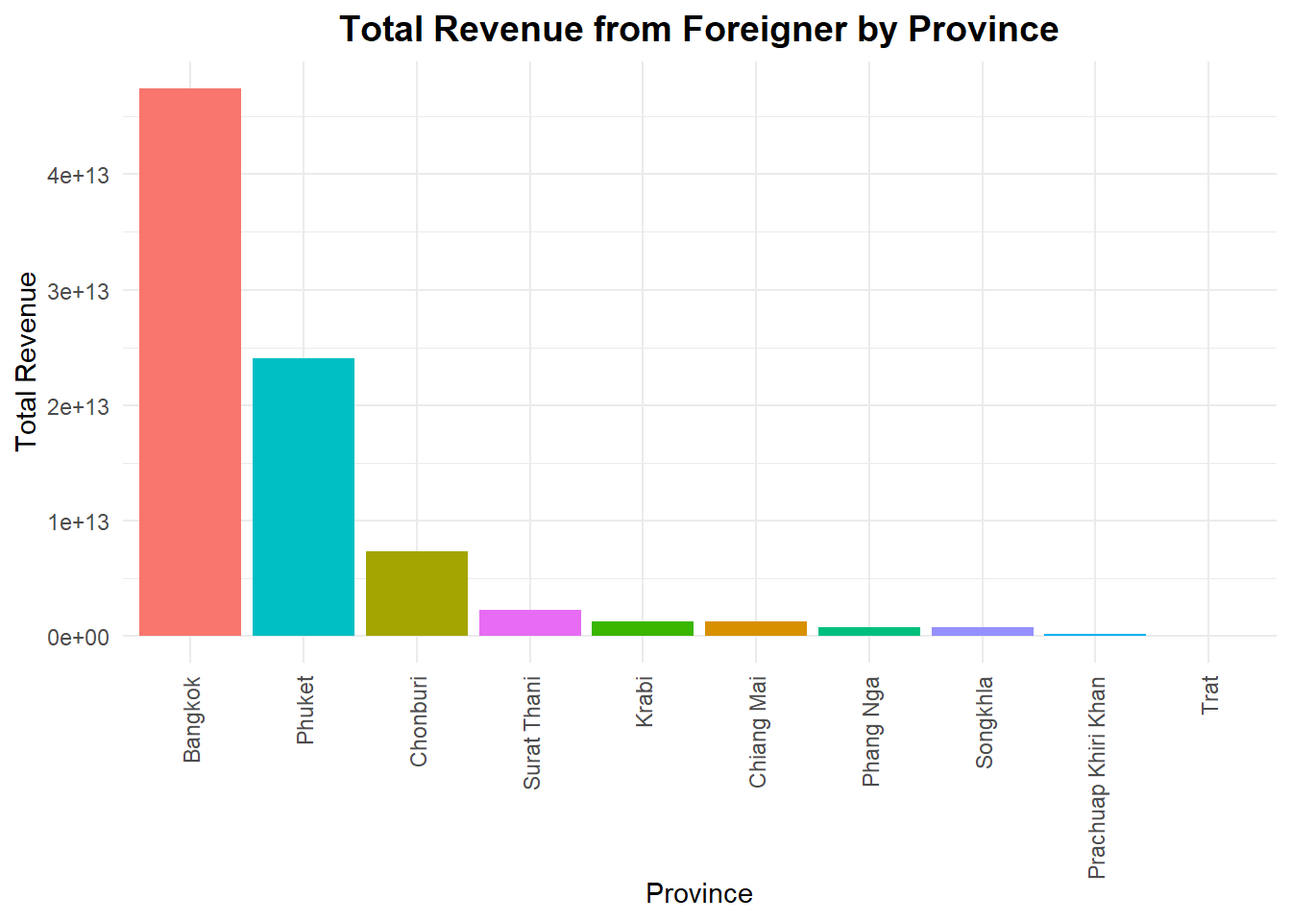
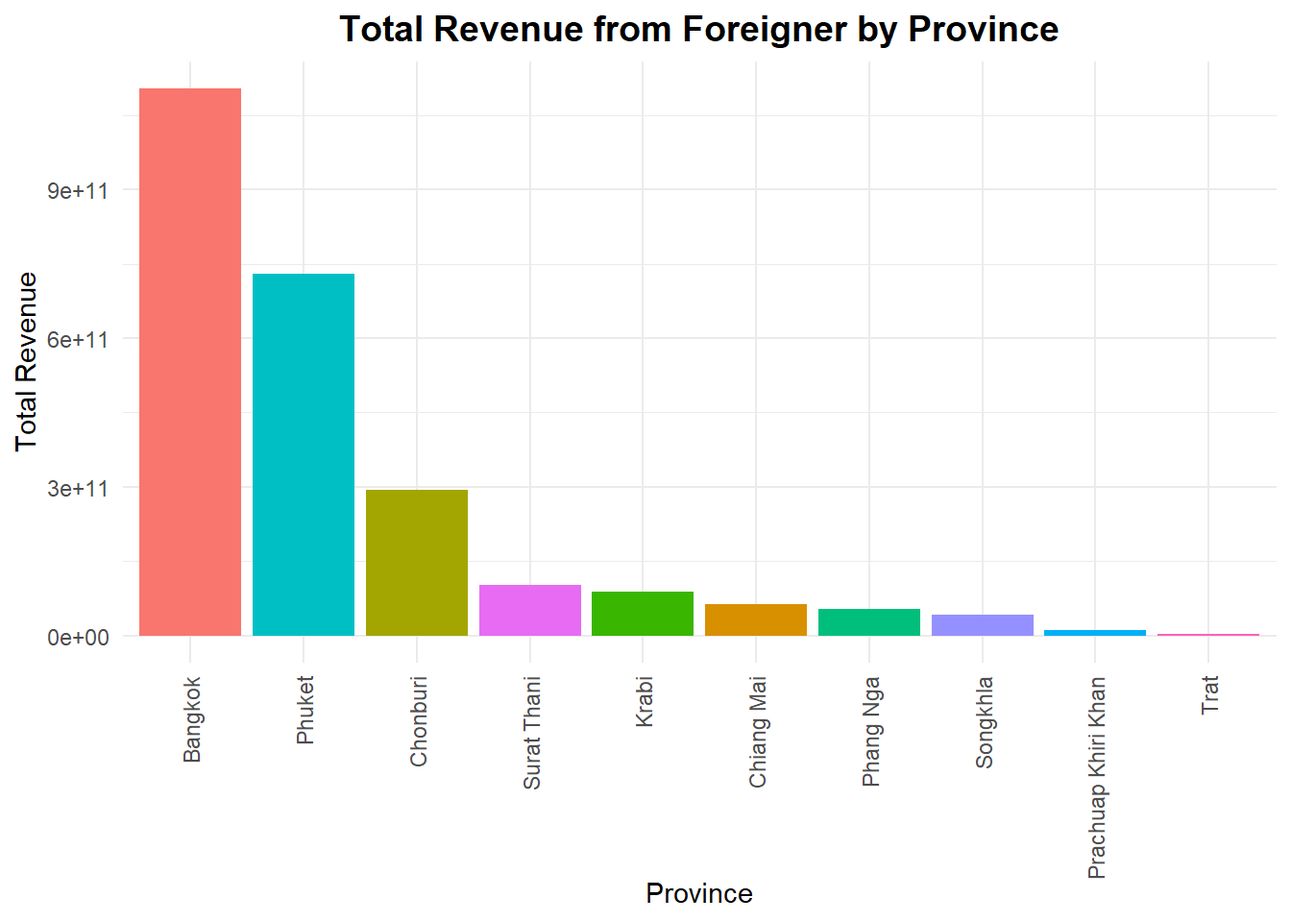
take-home 2 commit

diff --git a/_site/Take-home Exercise/Take-home_Ex02/Take-home_Ex02.html b/_site/Take-home Exercise/Take-home_Ex02/Take-home_Ex02.html
@@ -291,7 +291,7 @@ pre > code.sourceCode > span > a:first-child::before { text-decoration: underlin
   <li><a href="#getting-started" id="toc-getting-started" class="nav-link" data-scroll-target="#getting-started">2.0 Getting Started</a>
   <ul class="collapse">
   <li><a href="#setting-up-the-r-environment" id="toc-setting-up-the-r-environment" class="nav-link" data-scroll-target="#setting-up-the-r-environment">2.1 Setting up the R environment</a></li>
-  <li><a href="#loading-and-wrangling-the-data" id="toc-loading-and-wrangling-the-data" class="nav-link" data-scroll-target="#loading-and-wrangling-the-data">2.2 Loading and Wrangling the Data</a></li>
+  <li><a href="#loading-the-data" id="toc-loading-the-data" class="nav-link" data-scroll-target="#loading-the-data">2.2 Loading the Data</a></li>
   <li><a href="#joining-the-dataset" id="toc-joining-the-dataset" class="nav-link" data-scroll-target="#joining-the-dataset">2.3 Joining the dataset</a></li>
   <li><a href="#setting-seeds-to-ensure-reproducibility" id="toc-setting-seeds-to-ensure-reproducibility" class="nav-link" data-scroll-target="#setting-seeds-to-ensure-reproducibility">2.4 Setting Seeds to Ensure Reproducibility</a></li>
   </ul></li>
@@ -303,7 +303,8 @@ pre > code.sourceCode > span > a:first-child::before { text-decoration: underlin
   <li><a href="#comparing-the-top-10" id="toc-comparing-the-top-10" class="nav-link" data-scroll-target="#comparing-the-top-10">3.4 Comparing the Top 10</a></li>
   <li><a href="#understanding-number-of-tourist" id="toc-understanding-number-of-tourist" class="nav-link" data-scroll-target="#understanding-number-of-tourist">3.5 Understanding number of Tourist</a></li>
   </ul></li>
-  <li><a href="#section" id="toc-section" class="nav-link" data-scroll-target="#section">4.0</a></li>
+  <li><a href="#economic-indicator-layer" id="toc-economic-indicator-layer" class="nav-link" data-scroll-target="#economic-indicator-layer">4.0 Economic Indicator Layer</a></li>
+  <li><a href="#creating-a-time-series-cube" id="toc-creating-a-time-series-cube" class="nav-link" data-scroll-target="#creating-a-time-series-cube">5.0 Creating a Time Series Cube</a></li>
   </ul>
 </nav>
     </div>
@@ -336,7 +337,7 @@ pre > code.sourceCode > span > a:first-child::before { text-decoration: underlin
     <div>
     <div class="quarto-title-meta-heading">Modified</div>
     <div class="quarto-title-meta-contents">
-      <p class="date-modified">October 11, 2024</p>
+      <p class="date-modified">October 15, 2024</p>
     </div>
   </div>
     
@@ -396,8 +397,8 @@ pre > code.sourceCode > span > a:first-child::before { text-decoration: underlin
 <span id="cb1-4"><a href="#cb1-4" aria-hidden="true" tabindex="-1"></a>               Kendall)</span></code><button title="Copy to Clipboard" class="code-copy-button"><i class="bi"></i></button></pre></div>
 </div>
 </section>
-<section id="loading-and-wrangling-the-data" class="level3">
-<h3 class="anchored" data-anchor-id="loading-and-wrangling-the-data">2.2 Loading and Wrangling the Data</h3>
+<section id="loading-the-data" class="level3">
+<h3 class="anchored" data-anchor-id="loading-the-data">2.2 Loading the Data</h3>
 <p>Loading the tourism economy indicators data:</p>
 <div class="cell">
 <div class="sourceCode cell-code" id="cb2"><pre class="sourceCode r code-with-copy"><code class="sourceCode r"><span id="cb2-1"><a href="#cb2-1" aria-hidden="true" tabindex="-1"></a>tourism <span class="ot">&lt;-</span> <span class="fu">read_csv</span>(<span class="st">"data/rawdata/thailand_domestic_tourism_2019_2023_ver2.csv"</span>) <span class="sc">%&gt;%</span> </span>
@@ -412,7 +413,16 @@ pre > code.sourceCode > span > a:first-child::before { text-decoration: underlin
 <span id="cb3-2"><a href="#cb3-2" aria-hidden="true" tabindex="-1"></a>                    <span class="at">layer =</span> <span class="st">"tha_admbnda_adm1_rtsd_20220121"</span> ) <span class="sc">%&gt;%</span> </span>
 <span id="cb3-3"><a href="#cb3-3" aria-hidden="true" tabindex="-1"></a>  dplyr<span class="sc">::</span><span class="fu">select</span>(<span class="dv">3</span>,<span class="dv">17</span>) <span class="sc">%&gt;%</span> </span>
 <span id="cb3-4"><a href="#cb3-4" aria-hidden="true" tabindex="-1"></a>  <span class="fu">st_transform</span>(<span class="at">crs =</span> <span class="dv">32647</span>) <span class="sc">%&gt;%</span> </span>
-<span id="cb3-5"><a href="#cb3-5" aria-hidden="true" tabindex="-1"></a>  <span class="fu">rename</span>(<span class="at">province =</span> ADM1_EN )</span></code><button title="Copy to Clipboard" class="code-copy-button"><i class="bi"></i></button></pre></div>
+<span id="cb3-5"><a href="#cb3-5" aria-hidden="true" tabindex="-1"></a>  <span class="fu">rename</span>(<span class="at">province =</span> ADM1_EN ) <span class="sc">%&gt;%</span> </span>
+<span id="cb3-6"><a href="#cb3-6" aria-hidden="true" tabindex="-1"></a>  <span class="fu">mutate</span>(<span class="at">province =</span> <span class="fu">case_when</span>(</span>
+<span id="cb3-7"><a href="#cb3-7" aria-hidden="true" tabindex="-1"></a>    province <span class="sc">==</span> <span class="st">"Buriram"</span> <span class="sc">~</span> <span class="st">"Buri Ram"</span>,</span>
+<span id="cb3-8"><a href="#cb3-8" aria-hidden="true" tabindex="-1"></a>    province <span class="sc">==</span> <span class="st">"Chon Buri"</span> <span class="sc">~</span> <span class="st">"Chonburi"</span>,</span>
+<span id="cb3-9"><a href="#cb3-9" aria-hidden="true" tabindex="-1"></a>    province <span class="sc">==</span> <span class="st">"Lop Buri"</span> <span class="sc">~</span> <span class="st">"Lopburi"</span>,</span>
+<span id="cb3-10"><a href="#cb3-10" aria-hidden="true" tabindex="-1"></a>    province <span class="sc">==</span> <span class="st">"Nong Bua Lam Phu"</span> <span class="sc">~</span> <span class="st">"Nong Bua Lamphu"</span>,</span>
+<span id="cb3-11"><a href="#cb3-11" aria-hidden="true" tabindex="-1"></a>    province <span class="sc">==</span> <span class="st">"Phangnga"</span> <span class="sc">~</span> <span class="st">"Phang Nga"</span>,</span>
+<span id="cb3-12"><a href="#cb3-12" aria-hidden="true" tabindex="-1"></a>    province <span class="sc">==</span> <span class="st">"Prachin Buri"</span> <span class="sc">~</span> <span class="st">"Prachinburi"</span>,</span>
+<span id="cb3-13"><a href="#cb3-13" aria-hidden="true" tabindex="-1"></a>    province <span class="sc">==</span> <span class="st">"Si Sa Ket"</span> <span class="sc">~</span> <span class="st">"Sisaket"</span>,</span>
+<span id="cb3-14"><a href="#cb3-14" aria-hidden="true" tabindex="-1"></a>    <span class="cn">TRUE</span> <span class="sc">~</span> province))</span></code><button title="Copy to Clipboard" class="code-copy-button"><i class="bi"></i></button></pre></div>
 <div class="cell-output cell-output-stdout">
 <pre><code>Reading layer `tha_admbnda_adm1_rtsd_20220121' from data source 
   `C:\rydialiang\isss626-aug24\Take-home Exercise\Take-home_Ex02\data\rawdata' 
@@ -443,9 +453,10 @@ Geodetic CRS:  WGS 84</code></pre>
 <div class="sourceCode cell-code" id="cb7"><pre class="sourceCode r code-with-copy"><code class="sourceCode r"><span id="cb7-1"><a href="#cb7-1" aria-hidden="true" tabindex="-1"></a>data <span class="ot">&lt;-</span> <span class="fu">left_join</span>(tourism, </span>
 <span id="cb7-2"><a href="#cb7-2" aria-hidden="true" tabindex="-1"></a>                  province) <span class="sc">%&gt;%</span> </span>
 <span id="cb7-3"><a href="#cb7-3" aria-hidden="true" tabindex="-1"></a>  <span class="fu">st_as_sf</span>() <span class="sc">%&gt;%</span> </span>
-<span id="cb7-4"><a href="#cb7-4" aria-hidden="true" tabindex="-1"></a>  <span class="fu">st_transform</span>(<span class="at">crs =</span> <span class="dv">32647</span>)</span>
-<span id="cb7-5"><a href="#cb7-5" aria-hidden="true" tabindex="-1"></a>  </span>
-<span id="cb7-6"><a href="#cb7-6" aria-hidden="true" tabindex="-1"></a><span class="fu">write_rds</span>(data, <span class="st">"data/rds/data.rds"</span>)</span></code><button title="Copy to Clipboard" class="code-copy-button"><i class="bi"></i></button></pre></div>
+<span id="cb7-4"><a href="#cb7-4" aria-hidden="true" tabindex="-1"></a>  <span class="fu">st_transform</span>(<span class="at">crs =</span> <span class="dv">32647</span>) <span class="sc">%&gt;%</span> </span>
+<span id="cb7-5"><a href="#cb7-5" aria-hidden="true" tabindex="-1"></a>  <span class="fu">pivot_wider</span>(<span class="at">names_from =</span> variable, <span class="at">values_from =</span> value)</span>
+<span id="cb7-6"><a href="#cb7-6" aria-hidden="true" tabindex="-1"></a>  </span>
+<span id="cb7-7"><a href="#cb7-7" aria-hidden="true" tabindex="-1"></a><span class="fu">write_rds</span>(data, <span class="st">"data/rds/data.rds"</span>)</span></code><button title="Copy to Clipboard" class="code-copy-button"><i class="bi"></i></button></pre></div>
 </div>
 </section>
 <section id="setting-seeds-to-ensure-reproducibility" class="level3">
@@ -470,22 +481,23 @@ Geodetic CRS:  WGS 84</code></pre>
 </div>
 <div class="cell">
 <div class="sourceCode cell-code" id="cb10"><pre class="sourceCode r code-with-copy"><code class="sourceCode r"><span id="cb10-1"><a href="#cb10-1" aria-hidden="true" tabindex="-1"></a>rev_all_2b <span class="ot">&lt;-</span> data <span class="sc">%&gt;%</span></span>
-<span id="cb10-2"><a href="#cb10-2" aria-hidden="true" tabindex="-1"></a>  <span class="fu">filter</span>(variable <span class="sc">==</span> <span class="st">"revenue_all"</span>) <span class="sc">%&gt;%</span></span>
-<span id="cb10-3"><a href="#cb10-3" aria-hidden="true" tabindex="-1"></a>  <span class="fu">group_by</span>(province) <span class="sc">%&gt;%</span></span>
-<span id="cb10-4"><a href="#cb10-4" aria-hidden="true" tabindex="-1"></a>  <span class="fu">filter</span>(value <span class="sc">&gt;</span> <span class="dv">2000000000</span>) <span class="sc">%&gt;%</span> </span>
-<span id="cb10-5"><a href="#cb10-5" aria-hidden="true" tabindex="-1"></a>  <span class="fu">mutate</span>(<span class="at">value =</span> <span class="fu">sum</span>(value, <span class="at">na.rm =</span> <span class="cn">TRUE</span>)) <span class="sc">%&gt;%</span></span>
-<span id="cb10-6"><a href="#cb10-6" aria-hidden="true" tabindex="-1"></a>  <span class="fu">ungroup</span>()</span></code><button title="Copy to Clipboard" class="code-copy-button"><i class="bi"></i></button></pre></div>
+<span id="cb10-2"><a href="#cb10-2" aria-hidden="true" tabindex="-1"></a>  <span class="fu">group_by</span>(province) <span class="sc">%&gt;%</span></span>
+<span id="cb10-3"><a href="#cb10-3" aria-hidden="true" tabindex="-1"></a>  <span class="fu">filter</span>(revenue_all <span class="sc">&gt;</span> <span class="dv">2000000000</span>) <span class="sc">%&gt;%</span> </span>
+<span id="cb10-4"><a href="#cb10-4" aria-hidden="true" tabindex="-1"></a>  <span class="fu">summarise</span>(<span class="at">revenue_all =</span> <span class="fu">sum</span>(revenue_all, <span class="at">na.rm =</span> <span class="cn">TRUE</span>)) <span class="sc">%&gt;%</span> </span>
+<span id="cb10-5"><a href="#cb10-5" aria-hidden="true" tabindex="-1"></a>  <span class="fu">ungroup</span>()</span></code><button title="Copy to Clipboard" class="code-copy-button"><i class="bi"></i></button></pre></div>
 </div>
 <p>Taking a look at the revenue distribution:</p>
 <div class="cell">
 <div class="sourceCode cell-code" id="cb11"><pre class="sourceCode r code-with-copy"><code class="sourceCode r"><span id="cb11-1"><a href="#cb11-1" aria-hidden="true" tabindex="-1"></a><span class="fu">ggplot</span>(<span class="at">data =</span> rev_all_2b) <span class="sc">+</span></span>
-<span id="cb11-2"><a href="#cb11-2" aria-hidden="true" tabindex="-1"></a>  <span class="fu">geom_bar</span>(<span class="fu">aes</span>(<span class="at">x =</span> <span class="fu">reorder</span>(province, <span class="sc">-</span>value), <span class="at">y =</span> value, <span class="at">fill =</span> province), <span class="at">stat =</span> <span class="st">"identity"</span>) <span class="sc">+</span></span>
-<span id="cb11-3"><a href="#cb11-3" aria-hidden="true" tabindex="-1"></a>  <span class="fu">labs</span>(<span class="at">title =</span> <span class="st">"Total Revenue from Foreigner by Province"</span>, <span class="at">x =</span> <span class="st">"Province"</span>, <span class="at">y =</span> <span class="st">"Total Revenue"</span>) <span class="sc">+</span></span>
-<span id="cb11-4"><a href="#cb11-4" aria-hidden="true" tabindex="-1"></a>  <span class="fu">theme_minimal</span>() <span class="sc">+</span></span>
-<span id="cb11-5"><a href="#cb11-5" aria-hidden="true" tabindex="-1"></a>  <span class="fu">theme</span>(</span>
-<span id="cb11-6"><a href="#cb11-6" aria-hidden="true" tabindex="-1"></a>    <span class="at">axis.text.x =</span> <span class="fu">element_text</span>(<span class="at">angle =</span> <span class="dv">90</span>, <span class="at">vjust =</span> <span class="fl">0.5</span>, <span class="at">hjust =</span> <span class="dv">1</span>),  </span>
-<span id="cb11-7"><a href="#cb11-7" aria-hidden="true" tabindex="-1"></a>    <span class="at">plot.title =</span> <span class="fu">element_text</span>(<span class="at">hjust =</span> <span class="fl">0.5</span>, <span class="at">size =</span> <span class="dv">14</span>, <span class="at">face =</span> <span class="st">"bold"</span>),</span>
-<span id="cb11-8"><a href="#cb11-8" aria-hidden="true" tabindex="-1"></a>    <span class="at">legend.position =</span> <span class="st">"none"</span>)</span></code><button title="Copy to Clipboard" class="code-copy-button"><i class="bi"></i></button></pre></div>
+<span id="cb11-2"><a href="#cb11-2" aria-hidden="true" tabindex="-1"></a>  <span class="fu">geom_bar</span>(<span class="fu">aes</span>(<span class="at">x =</span> <span class="fu">reorder</span>(province, <span class="sc">-</span>revenue_all), </span>
+<span id="cb11-3"><a href="#cb11-3" aria-hidden="true" tabindex="-1"></a>               <span class="at">y =</span> revenue_all, <span class="at">fill =</span> province), </span>
+<span id="cb11-4"><a href="#cb11-4" aria-hidden="true" tabindex="-1"></a>           <span class="at">stat =</span> <span class="st">"identity"</span>) <span class="sc">+</span></span>
+<span id="cb11-5"><a href="#cb11-5" aria-hidden="true" tabindex="-1"></a>  <span class="fu">labs</span>(<span class="at">title =</span> <span class="st">"Total Revenue from Foreigner by Province"</span>, <span class="at">x =</span> <span class="st">"Province"</span>, <span class="at">y =</span> <span class="st">"Total Revenue"</span>) <span class="sc">+</span></span>
+<span id="cb11-6"><a href="#cb11-6" aria-hidden="true" tabindex="-1"></a>  <span class="fu">theme_minimal</span>() <span class="sc">+</span></span>
+<span id="cb11-7"><a href="#cb11-7" aria-hidden="true" tabindex="-1"></a>  <span class="fu">theme</span>(</span>
+<span id="cb11-8"><a href="#cb11-8" aria-hidden="true" tabindex="-1"></a>    <span class="at">axis.text.x =</span> <span class="fu">element_text</span>(<span class="at">angle =</span> <span class="dv">90</span>, <span class="at">vjust =</span> <span class="fl">0.5</span>, <span class="at">hjust =</span> <span class="dv">1</span>),  </span>
+<span id="cb11-9"><a href="#cb11-9" aria-hidden="true" tabindex="-1"></a>    <span class="at">plot.title =</span> <span class="fu">element_text</span>(<span class="at">hjust =</span> <span class="fl">0.5</span>, <span class="at">size =</span> <span class="dv">14</span>, <span class="at">face =</span> <span class="st">"bold"</span>),</span>
+<span id="cb11-10"><a href="#cb11-10" aria-hidden="true" tabindex="-1"></a>    <span class="at">legend.position =</span> <span class="st">"none"</span>)</span></code><button title="Copy to Clipboard" class="code-copy-button"><i class="bi"></i></button></pre></div>
 <div class="cell-output-display">
 <div>
 <figure class="figure">
@@ -526,15 +538,14 @@ Revenue_all
 <h3 class="anchored" data-anchor-id="understanding-the-share-of-revenue-from-foreigners-across-provinces">3.2 Understanding the share of Revenue from Foreigners across Provinces</h3>
 <div class="cell">
 <div class="sourceCode cell-code" id="cb12"><pre class="sourceCode r code-with-copy"><code class="sourceCode r"><span id="cb12-1"><a href="#cb12-1" aria-hidden="true" tabindex="-1"></a>rev_for_1b <span class="ot">&lt;-</span> data <span class="sc">%&gt;%</span></span>
-<span id="cb12-2"><a href="#cb12-2" aria-hidden="true" tabindex="-1"></a>  <span class="fu">filter</span>(variable <span class="sc">==</span> <span class="st">"revenue_foreign"</span>) <span class="sc">%&gt;%</span> </span>
-<span id="cb12-3"><a href="#cb12-3" aria-hidden="true" tabindex="-1"></a>  <span class="fu">group_by</span>(province) <span class="sc">%&gt;%</span></span>
-<span id="cb12-4"><a href="#cb12-4" aria-hidden="true" tabindex="-1"></a>  <span class="fu">filter</span>(value <span class="sc">&gt;</span> <span class="dv">1000000000</span>) <span class="sc">%&gt;%</span> </span>
-<span id="cb12-5"><a href="#cb12-5" aria-hidden="true" tabindex="-1"></a>  <span class="fu">mutate</span>(<span class="at">value =</span> <span class="fu">sum</span>(value, <span class="at">na.rm =</span> <span class="cn">TRUE</span>)) <span class="sc">%&gt;%</span></span>
-<span id="cb12-6"><a href="#cb12-6" aria-hidden="true" tabindex="-1"></a>  <span class="fu">ungroup</span>() </span></code><button title="Copy to Clipboard" class="code-copy-button"><i class="bi"></i></button></pre></div>
+<span id="cb12-2"><a href="#cb12-2" aria-hidden="true" tabindex="-1"></a>  <span class="fu">group_by</span>(province) <span class="sc">%&gt;%</span></span>
+<span id="cb12-3"><a href="#cb12-3" aria-hidden="true" tabindex="-1"></a>  <span class="fu">filter</span>(revenue_foreign <span class="sc">&gt;</span> <span class="dv">1000000000</span>) <span class="sc">%&gt;%</span> </span>
+<span id="cb12-4"><a href="#cb12-4" aria-hidden="true" tabindex="-1"></a>  <span class="fu">summarise</span>(<span class="at">revenue_foreign =</span> <span class="fu">sum</span>(revenue_foreign, <span class="at">na.rm =</span> <span class="cn">TRUE</span>)) <span class="sc">%&gt;%</span> </span>
+<span id="cb12-5"><a href="#cb12-5" aria-hidden="true" tabindex="-1"></a>  <span class="fu">ungroup</span>()</span></code><button title="Copy to Clipboard" class="code-copy-button"><i class="bi"></i></button></pre></div>
 </div>
 <div class="cell">
 <div class="sourceCode cell-code" id="cb13"><pre class="sourceCode r code-with-copy"><code class="sourceCode r"><span id="cb13-1"><a href="#cb13-1" aria-hidden="true" tabindex="-1"></a><span class="fu">ggplot</span>(<span class="at">data =</span> rev_for_1b) <span class="sc">+</span></span>
-<span id="cb13-2"><a href="#cb13-2" aria-hidden="true" tabindex="-1"></a>  <span class="fu">geom_bar</span>(<span class="fu">aes</span>(<span class="at">x =</span> <span class="fu">reorder</span>(province, <span class="sc">-</span>value), <span class="at">y =</span> value, <span class="at">fill =</span> province), <span class="at">stat =</span> <span class="st">"identity"</span>) <span class="sc">+</span></span>
+<span id="cb13-2"><a href="#cb13-2" aria-hidden="true" tabindex="-1"></a>  <span class="fu">geom_bar</span>(<span class="fu">aes</span>(<span class="at">x =</span> <span class="fu">reorder</span>(province, <span class="sc">-</span>revenue_foreign), <span class="at">y =</span> revenue_foreign, <span class="at">fill =</span> province), <span class="at">stat =</span> <span class="st">"identity"</span>) <span class="sc">+</span></span>
 <span id="cb13-3"><a href="#cb13-3" aria-hidden="true" tabindex="-1"></a>  <span class="fu">labs</span>(<span class="at">title =</span> <span class="st">"Total Revenue from Foreigner by Province"</span>, <span class="at">x =</span> <span class="st">"Province"</span>, <span class="at">y =</span> <span class="st">"Total Revenue"</span>) <span class="sc">+</span></span>
 <span id="cb13-4"><a href="#cb13-4" aria-hidden="true" tabindex="-1"></a>  <span class="fu">theme_minimal</span>() <span class="sc">+</span></span>
 <span id="cb13-5"><a href="#cb13-5" aria-hidden="true" tabindex="-1"></a>  <span class="fu">theme</span>(</span>
@@ -554,15 +565,14 @@ Revenue_all
 <h3 class="anchored" data-anchor-id="understanding-the-share-of-revenue-from-thai-across-provinces">3.3 Understanding the share of Revenue from Thai across Provinces</h3>
 <div class="cell">
 <div class="sourceCode cell-code" id="cb14"><pre class="sourceCode r code-with-copy"><code class="sourceCode r"><span id="cb14-1"><a href="#cb14-1" aria-hidden="true" tabindex="-1"></a>rev_thai_1b <span class="ot">&lt;-</span> data <span class="sc">%&gt;%</span></span>
-<span id="cb14-2"><a href="#cb14-2" aria-hidden="true" tabindex="-1"></a>  <span class="fu">filter</span>(variable <span class="sc">==</span> <span class="st">"revenue_thai"</span>) <span class="sc">%&gt;%</span> </span>
-<span id="cb14-3"><a href="#cb14-3" aria-hidden="true" tabindex="-1"></a>  <span class="fu">group_by</span>(province) <span class="sc">%&gt;%</span></span>
-<span id="cb14-4"><a href="#cb14-4" aria-hidden="true" tabindex="-1"></a>  <span class="fu">filter</span>(value <span class="sc">&gt;</span> <span class="dv">1000000000</span>) <span class="sc">%&gt;%</span> </span>
-<span id="cb14-5"><a href="#cb14-5" aria-hidden="true" tabindex="-1"></a>  <span class="fu">mutate</span>(<span class="at">value =</span> <span class="fu">sum</span>(value, <span class="at">na.rm =</span> <span class="cn">TRUE</span>)) <span class="sc">%&gt;%</span></span>
-<span id="cb14-6"><a href="#cb14-6" aria-hidden="true" tabindex="-1"></a>  <span class="fu">ungroup</span>() </span></code><button title="Copy to Clipboard" class="code-copy-button"><i class="bi"></i></button></pre></div>
+<span id="cb14-2"><a href="#cb14-2" aria-hidden="true" tabindex="-1"></a>  <span class="fu">group_by</span>(province) <span class="sc">%&gt;%</span></span>
+<span id="cb14-3"><a href="#cb14-3" aria-hidden="true" tabindex="-1"></a>  <span class="fu">filter</span>(revenue_thai <span class="sc">&gt;</span> <span class="dv">2000000000</span>) <span class="sc">%&gt;%</span> </span>
+<span id="cb14-4"><a href="#cb14-4" aria-hidden="true" tabindex="-1"></a>  <span class="fu">summarise</span>(<span class="at">revenue_thai =</span> <span class="fu">sum</span>(revenue_thai, <span class="at">na.rm =</span> <span class="cn">TRUE</span>)) <span class="sc">%&gt;%</span> </span>
+<span id="cb14-5"><a href="#cb14-5" aria-hidden="true" tabindex="-1"></a>  <span class="fu">ungroup</span>()</span></code><button title="Copy to Clipboard" class="code-copy-button"><i class="bi"></i></button></pre></div>
 </div>
 <div class="cell">
 <div class="sourceCode cell-code" id="cb15"><pre class="sourceCode r code-with-copy"><code class="sourceCode r"><span id="cb15-1"><a href="#cb15-1" aria-hidden="true" tabindex="-1"></a><span class="fu">ggplot</span>(<span class="at">data =</span> rev_thai_1b) <span class="sc">+</span></span>
-<span id="cb15-2"><a href="#cb15-2" aria-hidden="true" tabindex="-1"></a>  <span class="fu">geom_bar</span>(<span class="fu">aes</span>(<span class="at">x =</span> <span class="fu">reorder</span>(province, <span class="sc">-</span>value), <span class="at">y =</span> value, <span class="at">fill =</span> province), <span class="at">stat =</span> <span class="st">"identity"</span>) <span class="sc">+</span></span>
+<span id="cb15-2"><a href="#cb15-2" aria-hidden="true" tabindex="-1"></a>  <span class="fu">geom_bar</span>(<span class="fu">aes</span>(<span class="at">x =</span> <span class="fu">reorder</span>(province, <span class="sc">-</span>revenue_thai), <span class="at">y =</span> revenue_thai, <span class="at">fill =</span> province), <span class="at">stat =</span> <span class="st">"identity"</span>) <span class="sc">+</span></span>
 <span id="cb15-3"><a href="#cb15-3" aria-hidden="true" tabindex="-1"></a>  <span class="fu">labs</span>(<span class="at">title =</span> <span class="st">"Total Revenue from Thai by Province"</span>, <span class="at">x =</span> <span class="st">"Province"</span>, <span class="at">y =</span> <span class="st">"Total Revenue"</span>) <span class="sc">+</span></span>
 <span id="cb15-4"><a href="#cb15-4" aria-hidden="true" tabindex="-1"></a>  <span class="fu">theme_minimal</span>() <span class="sc">+</span></span>
 <span id="cb15-5"><a href="#cb15-5" aria-hidden="true" tabindex="-1"></a>  <span class="fu">theme</span>(</span>
@@ -663,14 +673,13 @@ Revenue_all
 <h3 class="anchored" data-anchor-id="understanding-number-of-tourist">3.5 Understanding number of Tourist</h3>
 <div class="cell">
 <div class="sourceCode cell-code" id="cb16"><pre class="sourceCode r code-with-copy"><code class="sourceCode r"><span id="cb16-1"><a href="#cb16-1" aria-hidden="true" tabindex="-1"></a>tourist_all <span class="ot">&lt;-</span> data <span class="sc">%&gt;%</span></span>
-<span id="cb16-2"><a href="#cb16-2" aria-hidden="true" tabindex="-1"></a>  <span class="fu">filter</span>(variable <span class="sc">==</span> <span class="st">"no_tourist_all"</span>) <span class="sc">%&gt;%</span> </span>
-<span id="cb16-3"><a href="#cb16-3" aria-hidden="true" tabindex="-1"></a>  <span class="fu">group_by</span>(province) <span class="sc">%&gt;%</span></span>
-<span id="cb16-4"><a href="#cb16-4" aria-hidden="true" tabindex="-1"></a>  <span class="fu">mutate</span>(<span class="at">value =</span> <span class="fu">sum</span>(value, <span class="at">na.rm =</span> <span class="cn">TRUE</span>)) <span class="sc">%&gt;%</span></span>
-<span id="cb16-5"><a href="#cb16-5" aria-hidden="true" tabindex="-1"></a>  <span class="fu">ungroup</span>() </span></code><button title="Copy to Clipboard" class="code-copy-button"><i class="bi"></i></button></pre></div>
+<span id="cb16-2"><a href="#cb16-2" aria-hidden="true" tabindex="-1"></a>  <span class="fu">group_by</span>(province) <span class="sc">%&gt;%</span></span>
+<span id="cb16-3"><a href="#cb16-3" aria-hidden="true" tabindex="-1"></a>  <span class="fu">summarise</span>(<span class="at">no_tourist_all =</span> <span class="fu">sum</span>(no_tourist_all, <span class="at">na.rm =</span> <span class="cn">TRUE</span>)) <span class="sc">%&gt;%</span></span>
+<span id="cb16-4"><a href="#cb16-4" aria-hidden="true" tabindex="-1"></a>  <span class="fu">ungroup</span>() </span></code><button title="Copy to Clipboard" class="code-copy-button"><i class="bi"></i></button></pre></div>
 </div>
 <div class="cell">
 <div class="sourceCode cell-code" id="cb17"><pre class="sourceCode r code-with-copy"><code class="sourceCode r"><span id="cb17-1"><a href="#cb17-1" aria-hidden="true" tabindex="-1"></a><span class="fu">ggplot</span>(<span class="at">data =</span> tourist_all) <span class="sc">+</span></span>
-<span id="cb17-2"><a href="#cb17-2" aria-hidden="true" tabindex="-1"></a>  <span class="fu">geom_bar</span>(<span class="fu">aes</span>(<span class="at">x =</span> <span class="fu">reorder</span>(province, <span class="sc">-</span>value), <span class="at">y =</span> value, <span class="at">fill =</span> province), <span class="at">stat =</span> <span class="st">"identity"</span>) <span class="sc">+</span></span>
+<span id="cb17-2"><a href="#cb17-2" aria-hidden="true" tabindex="-1"></a>  <span class="fu">geom_bar</span>(<span class="fu">aes</span>(<span class="at">x =</span> <span class="fu">reorder</span>(province, <span class="sc">-</span>no_tourist_all), <span class="at">y =</span> no_tourist_all, <span class="at">fill =</span> province), <span class="at">stat =</span> <span class="st">"identity"</span>) <span class="sc">+</span></span>
 <span id="cb17-3"><a href="#cb17-3" aria-hidden="true" tabindex="-1"></a>  <span class="fu">labs</span>(<span class="at">title =</span> <span class="st">"Total Number of Tourist by Province"</span>, <span class="at">x =</span> <span class="st">"Province"</span>, <span class="at">y =</span> <span class="st">"Total Number of Tourist"</span>) <span class="sc">+</span></span>
 <span id="cb17-4"><a href="#cb17-4" aria-hidden="true" tabindex="-1"></a>  <span class="fu">theme_minimal</span>() <span class="sc">+</span></span>
 <span id="cb17-5"><a href="#cb17-5" aria-hidden="true" tabindex="-1"></a>  <span class="fu">theme</span>(</span>
@@ -687,8 +696,30 @@ Revenue_all
 </div>
 </section>
 </section>
-<section id="section" class="level2">
-<h2 class="anchored" data-anchor-id="section">4.0</h2>
+<section id="economic-indicator-layer" class="level2">
+<h2 class="anchored" data-anchor-id="economic-indicator-layer">4.0 Economic Indicator Layer</h2>
+<p>We will combine all the data from 2019 to 2023 February, to take a look at how each province are different.</p>
+<div class="cell">
+<div class="sourceCode cell-code" id="cb18"><pre class="sourceCode r code-with-copy"><code class="sourceCode r"><span id="cb18-1"><a href="#cb18-1" aria-hidden="true" tabindex="-1"></a>econ <span class="ot">&lt;-</span> data <span class="sc">%&gt;%</span> </span>
+<span id="cb18-2"><a href="#cb18-2" aria-hidden="true" tabindex="-1"></a>  <span class="fu">group_by</span>(province, region_eng, geometry) <span class="sc">%&gt;%</span> </span>
+<span id="cb18-3"><a href="#cb18-3" aria-hidden="true" tabindex="-1"></a>  <span class="fu">summarise</span>(<span class="at">revenue_all =</span> <span class="fu">sum</span>(revenue_all, <span class="at">na.rm =</span> <span class="cn">TRUE</span>),</span>
+<span id="cb18-4"><a href="#cb18-4" aria-hidden="true" tabindex="-1"></a>            <span class="at">revenue_foreign =</span> <span class="fu">sum</span>(revenue_foreign, <span class="at">na.rm =</span> <span class="cn">TRUE</span>),</span>
+<span id="cb18-5"><a href="#cb18-5" aria-hidden="true" tabindex="-1"></a>            <span class="at">revenue_thai =</span> <span class="fu">sum</span>(revenue_thai, <span class="at">na.rm =</span> <span class="cn">TRUE</span>),</span>
+<span id="cb18-6"><a href="#cb18-6" aria-hidden="true" tabindex="-1"></a>            <span class="at">no_tourist_all =</span> <span class="fu">sum</span>(no_tourist_all, <span class="at">na.rm =</span> <span class="cn">TRUE</span>))</span></code><button title="Copy to Clipboard" class="code-copy-button"><i class="bi"></i></button></pre></div>
+</div>
+<div class="cell">
+<div class="sourceCode cell-code" id="cb19"><pre class="sourceCode r code-with-copy"><code class="sourceCode r"><span id="cb19-1"><a href="#cb19-1" aria-hidden="true" tabindex="-1"></a><span class="fu">plot</span>(econ)</span></code><button title="Copy to Clipboard" class="code-copy-button"><i class="bi"></i></button></pre></div>
+<div class="cell-output-display">
+<div>
+<figure class="figure">
+<p><img src="Take-home_Ex02_files/figure-html/unnamed-chunk-17-1.png" class="img-fluid figure-img" width="672"></p>
+</figure>
+</div>
+</div>
+</div>
+</section>
+<section id="creating-a-time-series-cube" class="level2">
+<h2 class="anchored" data-anchor-id="creating-a-time-series-cube">5.0 Creating a Time Series Cube</h2>
 
 
 </section>

diff --git a/_site/index.html b/_site/index.html
@@ -749,7 +749,7 @@ Sep 2, 2024
 </div>
 </a>
 </div>
-<div class="g-col-1" data-index="2" data-listing-date-sort="1727884800000" data-listing-file-modified-sort="1728576730353" data-listing-date-modified-sort="1728576730000" data-listing-reading-time-sort="8" data-listing-word-count-sort="1538">
+<div class="g-col-1" data-index="2" data-listing-date-sort="1727884800000" data-listing-file-modified-sort="1728964239103" data-listing-date-modified-sort="1728964239000" data-listing-reading-time-sort="9" data-listing-word-count-sort="1727">
 <a href="./Take-home Exercise/Take-home_Ex02/Take-home_Ex02.html" class="quarto-grid-link">
 <div class="quarto-grid-item card h-100 card-left">
 <p class="card-img-top"><img src="Take-home Exercise\Take-home_Ex02\Take-home_Ex02_files\figure-html\unnamed-chunk-4-1.png" style="height: 150px;"  class="thumbnail-image card-img"/></p>
